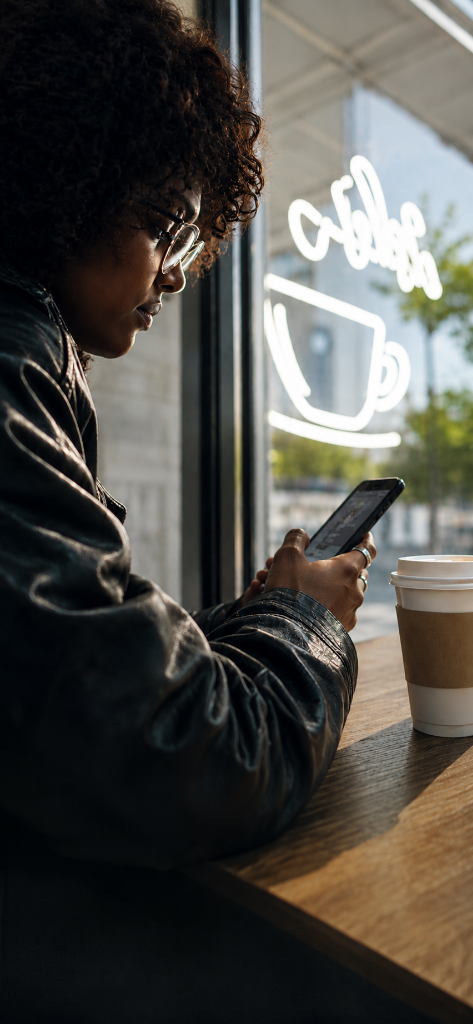
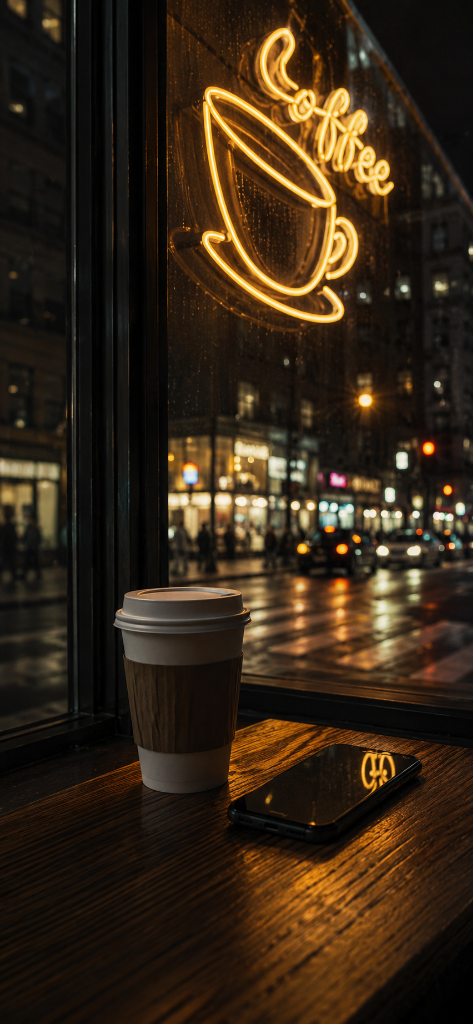
feat(linkup): optimize flash onboarding experience with warm coffee neon asset and stable button clearance

diff --git a/assets/echoo-linkup.css b/assets/echoo-linkup.css
@@ -1253,7 +1253,63 @@
   height: 22px;
   border-radius: 50%;
   background: #fff;
-  transiti.echoo-linkup-intro-shell {
+  transition: transform 0.2s ease;
+  box-shadow: 0 1px 4px rgba(0, 0, 0, 0.4);
+}
+.echoo-linkup-toggle.is-on::after {
+  transform: translateX(20px);
+}
+.echoo-linkup-toggle[disabled] {
+  opacity: 0.5;
+  cursor: default;
+}
+
+/* Settings rows */
+.echoo-linkup-settings-card {
+  display: flex;
+  flex-direction: column;
+  gap: 6px;
+  background: #111111;
+  border: 1px solid rgba(248, 245, 239, 0.08);
+  border-radius: 18px;
+  padding: 6px 16px;
+}
+.echoo-linkup-settings-row {
+  display: flex;
+  align-items: center;
+  gap: 14px;
+  padding: 16px 0;
+  border-bottom: 1px solid rgba(248, 245, 239, 0.06);
+}
+.echoo-linkup-settings-row:last-child {
+  border-bottom: 0;
+}
+.echoo-linkup-settings-text {
+  flex: 1;
+  min-width: 0;
+}
+.echoo-linkup-settings-label {
+  font:
+    650 15px/1.2 "Inter",
+    sans-serif;
+  color: var(--ink);
+}
+.echoo-linkup-settings-hint {
+  margin-top: 3px;
+  font:
+    520 12px/1.35 "Inter",
+    sans-serif;
+  color: var(--muted);
+}
+.echoo-linkup-settings-link-row {
+  text-decoration: none;
+  color: var(--ink);
+}
+
+/* ───────────────────────────────────────────────────────────────────────
+   Unified Hero Landing Shell & Multi-Step Flash Onboarding Showcase
+   ─────────────────────────────────────────────────────────────────────── */
+.echoo-linkup-intro-shell {
   position: relative;
   margin: 8px 14px 110px 14px;
   height: calc(100svh - 78px - env(safe-area-inset-top, 0px) - 105px);
@@ -1328,7 +1384,7 @@
   border-color: rgba(231, 201, 142, 0.35);
 }
 
-/* Slides Container & Layers */
+/* Slides Container & Flash Screen Layers */
 .linkup-slides-container {
   position: absolute;
   inset: 0;
@@ -1364,7 +1420,7 @@
   pointer-events: auto;
 }
 
-/* Background image mappings with multi-stop dark gradient scrims */
+/* Background image mappings with warm coffee neon lifestyle and dark gradient scrims */
 .linkup-slide-layer[data-slide-index="0"] {
   background-image:
     linear-gradient(180deg, rgba(5, 5, 5, 0.65) 0%, rgba(5, 5, 5, 0.12) 32%, rgba(5, 5, 5, 0.42) 65%, rgba(5, 5, 5, 0.95) 100%),
@@ -1426,7 +1482,7 @@
   max-width: 320px;
 }
 
-/* Bottom Action Buttons (Strictly above floating bottom nav) */
+/* Bottom Action Buttons (Strictly elevated above floating bottom nav) */
 .intro-action-group {
   position: relative;
   z-index: 10;

diff --git a/linkup.html b/linkup.html
@@ -175,7 +175,7 @@
 
       <!-- Link Up Module Main Shell -->
       <main class="echoo-linkup-module">
-        <!-- Unified, Stable Multi-Step Hero Landing Showcase -->
+        <!-- Unified, Stable Multi-Step Flash Landing Showcase -->
         <section class="echoo-linkup-intro-shell" id="echoo-linkup-intro-shell" aria-label="Link Up Introduction">
           <!-- Top Progress Stepper & Skip Action -->
           <div class="linkup-top-nav">
@@ -188,9 +188,9 @@
             <button class="linkup-skip-btn" id="linkup-skip-btn" type="button">Skip</button>
           </div>
 
-          <!-- Slide Layers -->
+          <!-- Flash Screen Slide Layers (Only active slide is visible) -->
           <div class="linkup-slides-container">
-            <!-- Slide 0: Hero Spot Match -->
+            <!-- Slide 0: Link Up -->
             <div class="linkup-slide-layer active" data-slide-index="0">
               <div class="linkup-slide-content">
                 <h1 class="linkup-hero-title">Link up.</h1>
@@ -214,7 +214,7 @@
               </div>
             </div>
 
-            <!-- Slide 2: In-Venue Real Time Chat -->
+            <!-- Slide 2: Chat on the Spot -->
             <div class="linkup-slide-layer" data-slide-index="2">
               <div class="linkup-slide-content">
                 <h2 class="linkup-hero-title">Chat on the spot.</h2>
@@ -226,7 +226,7 @@
               </div>
             </div>
 
-            <!-- Slide 3: Real Life Connections -->
+            <!-- Slide 3: No Endless DMs -->
             <div class="linkup-slide-layer" data-slide-index="3">
               <div class="linkup-slide-content">
                 <h2 class="linkup-hero-title">No endless DMs.</h2>
@@ -239,7 +239,7 @@
             </div>
           </div>
 
-          <!-- Bottom Action Controls (Cleanly elevated above bottom navigation) -->
+          <!-- Bottom Action Group (Cleanly elevated above floating bottom navigation) -->
           <div class="intro-action-group">
             <button class="echoo-linkup-btn--hero" id="btn-next-step" type="button">Next &rarr;</button>
             <button class="echoo-linkup-btn--outline" id="btn-sign-in" type="button">Sign in</button>

diff --git a/assets/echoo-linkup.js b/assets/echoo-linkup.js
@@ -1587,7 +1587,7 @@
   };
 
   // ────────────────────────────────────────────────────────────────────
-  // Intro Multi-Step Showcase Controller & Minimal Auth Sheet
+  // Intro Multi-Step Flash Showcase Controller & Auth Navigation
   // ────────────────────────────────────────────────────────────────────
   function initIntroCarousel() {
     const slides = document.querySelectorAll(".linkup-slide-layer");
